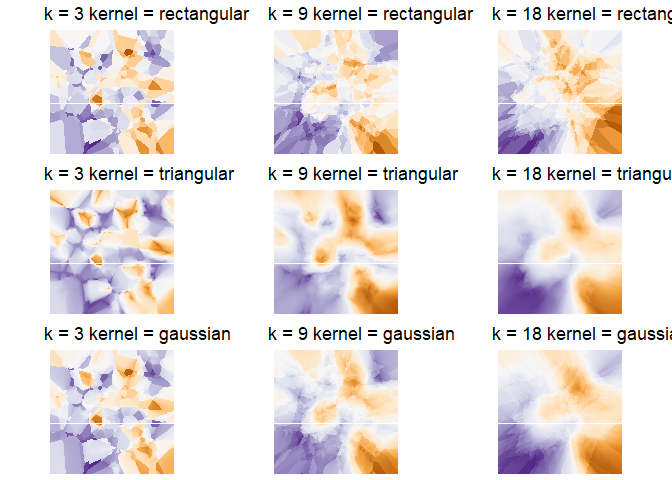
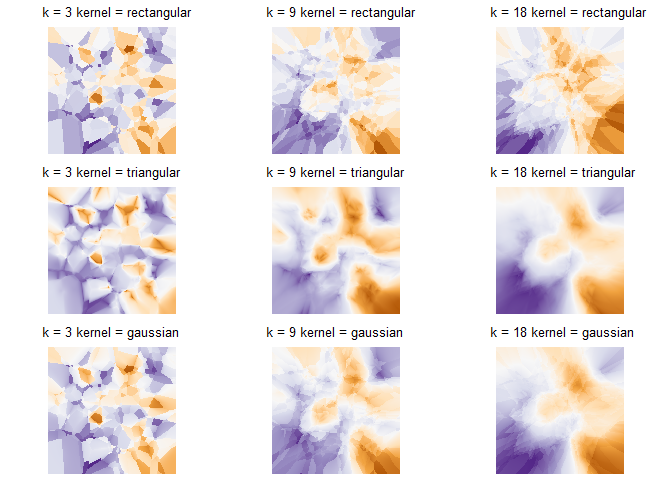
improve gridded plots

diff --git a/_posts/2022-05-22-knn_art.md b/_posts/2022-05-22-knn_art.md
@@ -78,12 +78,11 @@ ggplot(test) +
 
 ![](/assets/images/knn_art/unnamed-chunk-3-1.png)<!-- -->
 
-Now I'll try different values for *k*, some different kernel choices, and a different color palette. Since these plots take a while to generate, I'll use the `future_map2()` function from the `furrr` package to run them in parallel. The `gridExtra` package is useful for arranging non-faceted plots in a grid (and thanks to [this post on StackOverflow](https://stackoverflow.com/questions/10706753/how-do-i-arrange-a-variable-list-of-plots-using-grid-arrange) for getting a list of plots to play nice with `grid.arrange()`).
+Now I'll try different values for *k*, some different kernel choices, and a different color palette. Since these plots take a while to generate, I'll use the `future_map2()` function from the `furrr` package to run them in parallel and create a list of plots. The `cowplot` package is useful for arranging non-faceted plots in a grid and can accept the list of plots with the `plotlist` argument.
 
 
 ```r
 library(furrr)
-library(gridExtra)
 plan(multisession, workers = 8)
 
 params <- expand.grid(x= c(3, 9, 18), y = c("rectangular", "triangular", "gaussian"))
@@ -93,17 +92,16 @@ plots <-
   future_map2(params$x, params$y, function(k, kern){
     knn <- kknn(z~., train, test, k=k, kernel=kern)
 
-    p <- ggplot(test) +
+    ggplot(test) +
       geom_tile(aes(x=x, y=y, fill=fitted(knn))) +
       scale_fill_distiller(palette = "PuOr") +
       coord_fixed() +
       theme_void() +
-      theme(legend.position="none") +
-      ggtitle(paste("k =", k, "kernel =", kern))
-    p
+      ggtitle(paste("k =", k, "kernel =", kern)) +
+      theme(legend.position="none", plot.title = element_text(size=10))
   })
 
-do.call("grid.arrange", c(plots, ncol=3))
+cowplot::plot_grid(plotlist = plots, ncol=3)
 ```
 
 ![](/assets/images/knn_art/unnamed-chunk-4-1.png)<!-- -->
